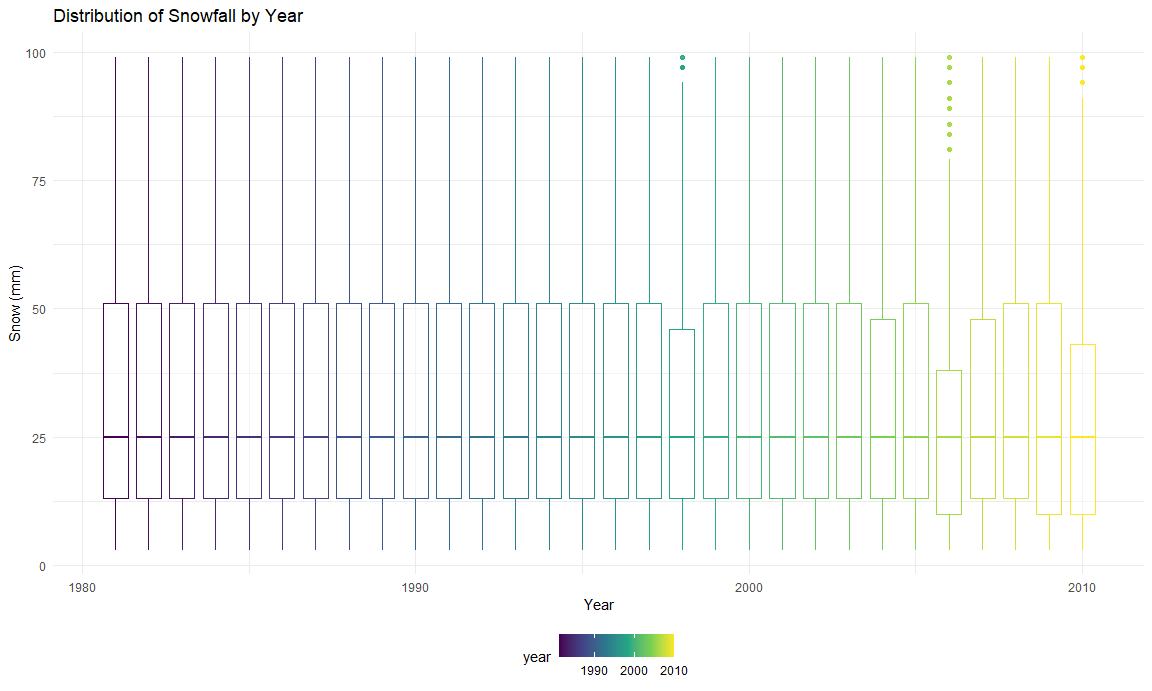
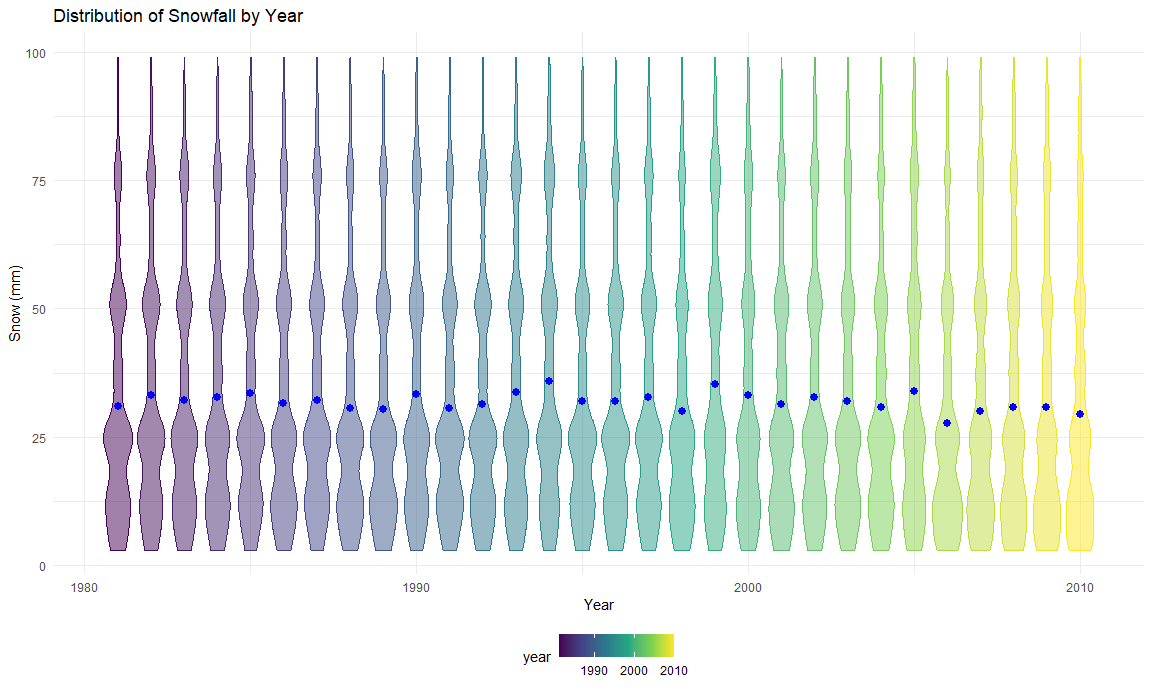
interpret plots and continue to amend tales and plots

diff --git a/p8105_hw3_ww2579.md b/p8105_hw3_ww2579.md
@@ -7,14 +7,14 @@ Wenzhao Wu
 library(tidyverse)
 ```
 
-    ## -- Attaching packages --------------- tidyverse 1.3.0 --
+    ## -- Attaching packages ---------------------------------- tidyverse 1.3.0 --
 
     ## v ggplot2 3.3.2     v purrr   0.3.4
     ## v tibble  3.0.3     v dplyr   1.0.2
     ## v tidyr   1.1.2     v stringr 1.4.0
     ## v readr   1.3.1     v forcats 0.5.0
 
-    ## -- Conflicts ------------------ tidyverse_conflicts() --
+    ## -- Conflicts ------------------------------------- tidyverse_conflicts() --
     ## x dplyr::filter() masks stats::filter()
     ## x dplyr::lag()    masks stats::lag()
 
@@ -198,91 +198,61 @@ It collects data of activity counts for each minute of a 24-hour day for
 There are variables activity\_counts, activity\_min, day, day\_id, dow,
 week included.
 
-Data summary.
+Data summary in an “untidy” table.
 
 ``` r
-day_activity = 
-  tidied_df %>%
-  group_by(week, day, day_id) %>%
-  summarise(activity_per_day = sum(activity_counts)) %>%
-  knitr::kable()
+day_activity = tidied_df %>% 
+  group_by(week, day) %>%
+  summarise(activity_per_day = sum(activity_counts)) 
 ```
 
-    ## `summarise()` regrouping output by 'week', 'day' (override with `.groups` argument)
+    ## `summarise()` regrouping output by 'week' (override with `.groups` argument)
 
 ``` r
-day_activity
+xtabs(activity_per_day ~ week + day, data = day_activity)
 ```
 
-| week | day       | day\_id | activity\_per\_day |
-| ---: | :-------- | ------: | -----------------: |
-|    1 | Friday    |       1 |          480542.62 |
-|    1 | Monday    |       2 |           78828.07 |
-|    1 | Saturday  |       3 |          376254.00 |
-|    1 | Sunday    |       4 |          631105.00 |
-|    1 | Thursday  |       5 |          355923.64 |
-|    1 | Tuesday   |       6 |          307094.24 |
-|    1 | Wednesday |       7 |          340115.01 |
-|    2 | Friday    |       8 |          568839.00 |
-|    2 | Monday    |       9 |          295431.00 |
-|    2 | Saturday  |      10 |          607175.00 |
-|    2 | Sunday    |      11 |          422018.00 |
-|    2 | Thursday  |      12 |          474048.00 |
-|    2 | Tuesday   |      13 |          423245.00 |
-|    2 | Wednesday |      14 |          440962.00 |
-|    3 | Friday    |      15 |          467420.00 |
-|    3 | Monday    |      16 |          685910.00 |
-|    3 | Saturday  |      17 |          382928.00 |
-|    3 | Sunday    |      18 |          467052.00 |
-|    3 | Thursday  |      19 |          371230.00 |
-|    3 | Tuesday   |      20 |          381507.00 |
-|    3 | Wednesday |      21 |          468869.00 |
-|    4 | Friday    |      22 |          154049.00 |
-|    4 | Monday    |      23 |          409450.00 |
-|    4 | Saturday  |      24 |            1440.00 |
-|    4 | Sunday    |      25 |          260617.00 |
-|    4 | Thursday  |      26 |          340291.00 |
-|    4 | Tuesday   |      27 |          319568.00 |
-|    4 | Wednesday |      28 |          434460.00 |
-|    5 | Friday    |      29 |          620860.00 |
-|    5 | Monday    |      30 |          389080.00 |
-|    5 | Saturday  |      31 |            1440.00 |
-|    5 | Sunday    |      32 |          138421.00 |
-|    5 | Thursday  |      33 |          549658.00 |
-|    5 | Tuesday   |      34 |          367824.00 |
-|    5 | Wednesday |      35 |          445366.00 |
+    ##     day
+    ## week    Friday    Monday  Saturday    Sunday  Thursday   Tuesday Wednesday
+    ##    1 480542.62  78828.07 376254.00 631105.00 355923.64 307094.24 340115.01
+    ##    2 568839.00 295431.00 607175.00 422018.00 474048.00 423245.00 440962.00
+    ##    3 467420.00 685910.00 382928.00 467052.00 371230.00 381507.00 468869.00
+    ##    4 154049.00 409450.00   1440.00 260617.00 340291.00 319568.00 434460.00
+    ##    5 620860.00 389080.00   1440.00 138421.00 549658.00 367824.00 445366.00
 
-After aggregating across minutes for each day, there are total
+After aggregating across minutes for each day, there are total 35
 observations. One standing-out feature is that on Saturdays of week 4
-and 5, the activity counts are both 1440 per day.
+and 5, the activity counts are both 1440 units per day, which is the
+lowest sum of value.
 
 Make a single-panel plot.
 
 ``` r
-plot_accel = 
+activity_plot = 
   tidied_df %>%
-  ggplot(aes(x = activity_min, y = activity_counts, group = day_id, color = day_id),alpha = 0.1) +
-  geom_line() +
-  geom_smooth(SE = FALSE) +
+  ggplot(aes(x = activity_min, y = activity_counts, group = day_id, color = day_id),alpha = 0.4) +
+  geom_point(size = 0.1, alpha = 0.4) +
+  geom_line(alpha = 0.5) +
+  scale_x_continuous(
+    breaks = seq(1,1440,60)
+  ) +
   scale_y_continuous(
     trans = "sqrt") +
   theme(axis.text.x = element_text(angle = 90, vjust = 0.5, hjust = 1))
+
+activity_plot
 ```
-
-    ## Warning: Ignoring unknown parameters: SE
-
-``` r
-plot_accel
-```
-
-    ## `geom_smooth()` using method = 'gam' and formula 'y ~ s(x, bs = "cs")'
-
-    ## Warning: Computation failed in `stat_smooth()`:
-    ## NA/NaN/Inf in foreign function call (arg 3)
 
 <img src="p8105_hw3_ww2579_files/figure-gfm/unnamed-chunk-8-1.png" width="90%" />
 
-Conclusions: From the graph above we can see that
+Interpretations: From the graph above we can see that most of the data
+are below 2500 units of activity counts within one day. In terms of the
+overall trend, the activity counts are staying relatively low for about
+the first 300 minutes (i.e. from midnight to 5am). There are much more
+extreme values during the day, some of which are concentrated at 1201
+min (i.e. 8pm). Then the activity counts decrease after 1321 min
+(i.e. 10pm). There is no apparent association observed between day\_id
+and activity counts, since lines are quite overlapped.
 
 ## Problem 3
 
@@ -310,32 +280,30 @@ ny_noaa
     ## 10 US1NYAB0001  2007 11       10    NA    NA    NA    NA    NA
     ## # ... with 2,595,166 more rows
 
-The most commonly observed values for snowfall.
+The most commonly observed values for snowfall (mm).
 
 ``` r
 ny_noaa %>%
-  group_by(snow) %>%
-  mutate(N = n()) %>%
-  ungroup() %>%
-  filter(N == max(N))
+  count(snow) %>%
+  arrange(desc(n))
 ```
 
-    ## # A tibble: 2,008,508 x 10
-    ##    id           year month   day  prcp  snow  snwd  tmax  tmin       N
-    ##    <chr>       <int> <fct> <int> <int> <int> <int> <dbl> <dbl>   <int>
-    ##  1 US1NYAB0001  2007 11       18     0     0    NA    NA    NA 2008508
-    ##  2 US1NYAB0001  2007 11       19     0     0     0    NA    NA 2008508
-    ##  3 US1NYAB0001  2007 11       20    25     0     0    NA    NA 2008508
-    ##  4 US1NYAB0001  2007 11       21    71     0     0    NA    NA 2008508
-    ##  5 US1NYAB0001  2007 11       22     8     0    NA    NA    NA 2008508
-    ##  6 US1NYAB0001  2007 11       23     8     0    NA    NA    NA 2008508
-    ##  7 US1NYAB0001  2007 11       25     0     0    NA    NA    NA 2008508
-    ##  8 US1NYAB0001  2007 11       27   150     0     0    NA    NA 2008508
-    ##  9 US1NYAB0001  2007 11       29     0     0     0    NA    NA 2008508
-    ## 10 US1NYAB0001  2007 11       30     0     0     0    NA    NA 2008508
-    ## # ... with 2,008,498 more rows
+    ## # A tibble: 282 x 2
+    ##     snow       n
+    ##    <int>   <int>
+    ##  1     0 2008508
+    ##  2    NA  381221
+    ##  3    25   31022
+    ##  4    13   23095
+    ##  5    51   18274
+    ##  6    76   10173
+    ##  7     8    9962
+    ##  8     5    9748
+    ##  9    38    9197
+    ## 10     3    8790
+    ## # ... with 272 more rows
 
-The most commonly observed value is “0” as the code chunk shows above.
+The most commonly observed value is “0” with a frequency of 2008508.
 
 Jan vs July.
 
@@ -510,7 +478,17 @@ jj_plot
 
 <img src="p8105_hw3_ww2579_files/figure-gfm/unnamed-chunk-11-1.png" width="90%" />
 
-Interpretations:
+Interpretations: There is no obvious increasing or decreasing trend
+observed across years. Both means of tmax in January and July display a
+“zigzag” graph, of which the data show a greater fluctuation in
+January during this time period. Also, it can be easily seen from the
+graph that the mean max temperature in July is significantly higher than
+that in January. In 1994 and 2004, the average max temperatures in
+January seem to have a bigger drop from the previous years when compared
+to other years. However, it is not easy to tell from this figure about
+which stations usually having higher or lower temperatures. In addition,
+outliers might include some extreme values, such as the one in July in
+1988, and the one in January in 1982.
 
 Make a two-panel plot.
 
@@ -538,11 +516,14 @@ snow_plot =
   ny_noaa %>%
   filter(snow > 0  & snow < 100 ) %>%
   ggplot(aes(x = year, y = snow, group = year, colour = year)) +
-  geom_boxplot(alpha = 0.4) +
+  geom_violin(aes(fill = year), alpha = .5) + 
+  stat_summary(fun = "mean", color = "blue")+
   labs(x = "Year", y = "Snow (mm)", title = "Distribution of Snowfall by Year")
 
 snow_plot
 ```
+
+    ## Warning: Removed 30 rows containing missing values (geom_segment).
 
 <img src="p8105_hw3_ww2579_files/figure-gfm/unnamed-chunk-12-2.png" width="90%" />
 
@@ -554,6 +535,11 @@ mean_temp_plot+snow_plot
     
     ## Warning: Removed 1136276 rows containing missing values (geom_point).
 
+    ## Warning: Removed 30 rows containing missing values (geom_segment).
+
 <img src="p8105_hw3_ww2579_files/figure-gfm/unnamed-chunk-12-3.png" width="90%" />
 
-Interpretations:
+Interpretations: The max temperature and min temperature are
+proportional to each other as the graph shown above. The snowfall (mm)
+in NYC is mainly distributed below 37.5 mm (within the interval (0,100))
+and staying stable over years.
